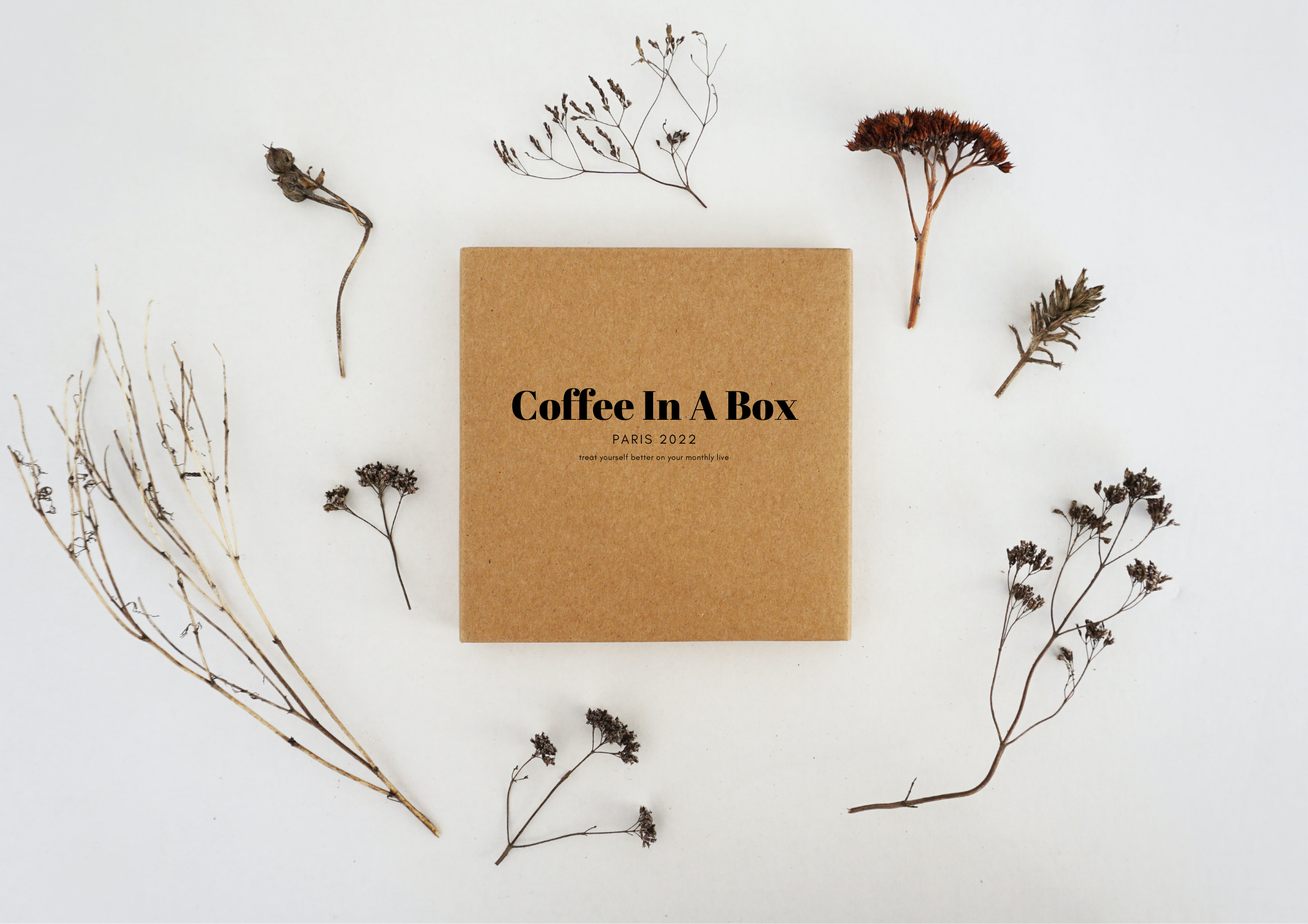
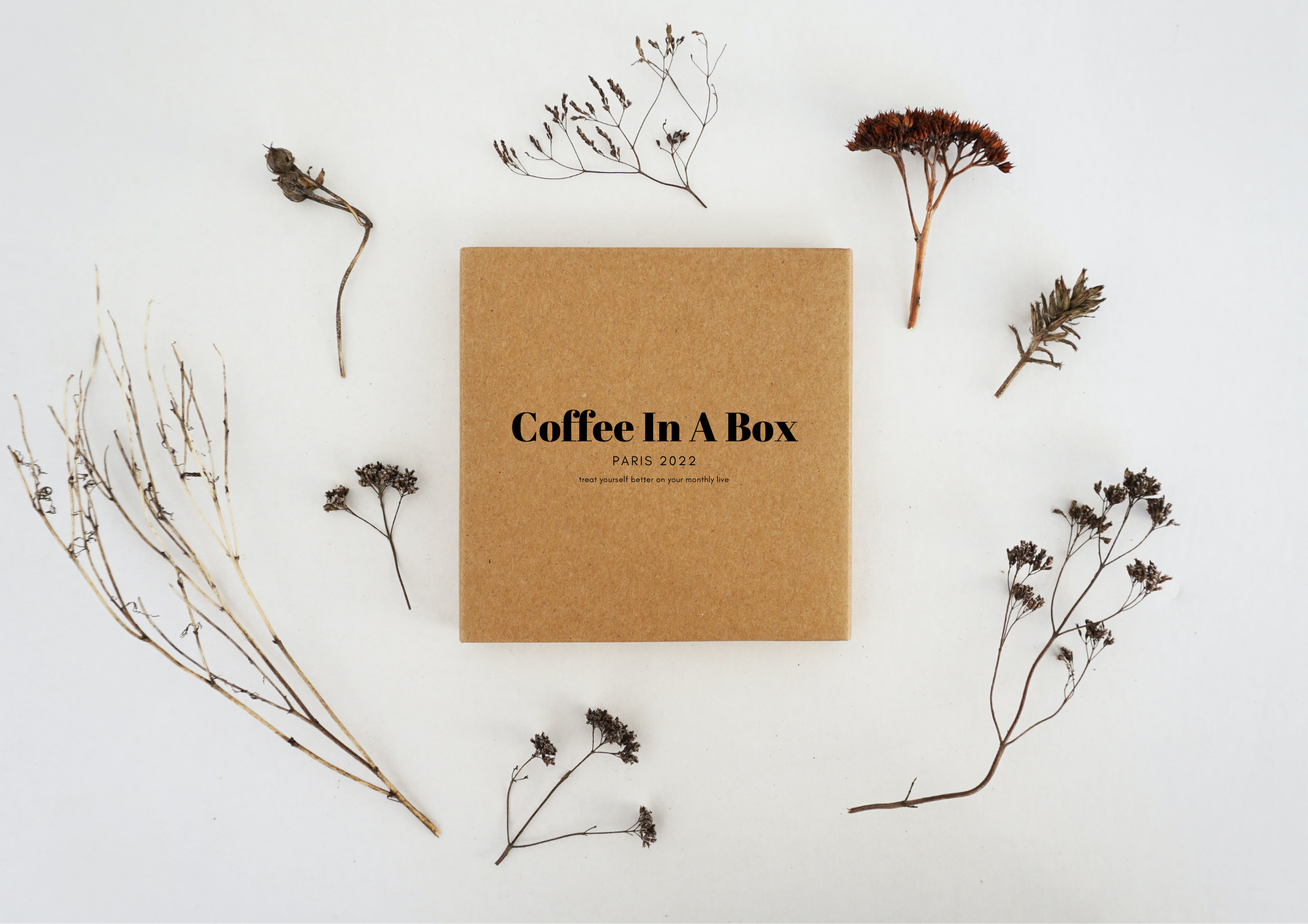
change font

Changed region(s): [[0.3742, 0.4014, 0.6236, 0.5249]]

diff --git a/public/stylesheets/style.css b/public/stylesheets/style.css
@@ -8,19 +8,40 @@
 ::before,
 ::after {
   box-sizing: border-box;
+  font-family: "Montserrat", sans-serif;
   margin: 0;
   padding: 0;
 }
 
 /* GLOBAL STYLES*/
 body {
-  font: 14px "Lucida Grande", Helvetica, Arial, sans-serif;
+  /* font: 14px "Lucida Grande", Helvetica, Arial, sans-serif; */
+  font-family: "Ubuntu", sans-serif;
+  font-weight: 400;
+  text-align: center;
   display: grid;
   height: 100vh;
   grid-template-rows: auto 1fr auto;
 }
 
+h1,
+h2,
+h3,
+h4,
+h5,
+h6 {
+  font-family: "Ubuntu", sans-serif;
+  font-weight: 500;
+}
+
+p,
+span {
+  font-family: "Ubuntu", sans-serif;
+  font-weight: 400;
+}
+
 footer {
+  font-family: "Ubuntu", sans-serif;
   background-color: var(--primary-bg-color);
   text-align: center;
   padding: 1rem 0;
@@ -35,5 +56,7 @@ h1 {
 }
 
 .navbar {
+  font-family: "Ubuntu", sans-serif;
+  font-weight: 700;
   padding: 0;
 }

diff --git a/public/stylesheets/pricing.css b/public/stylesheets/pricing.css
@@ -6,6 +6,12 @@ body {
   grid-template-rows: auto 1fr auto;
 }
 
+h1 {
+  margin-bottom: 0.5rem;
+  font-weight: 700;
+  line-height: 1.2;
+}
+
 .container {
   max-width: 960px;
 }
@@ -68,6 +74,6 @@ body {
 
 .pricing-title {
   font-size: 3.5rem;
-  font-weight: 500;
+  font-weight: 700;
   line-height: 1.2;
 }
